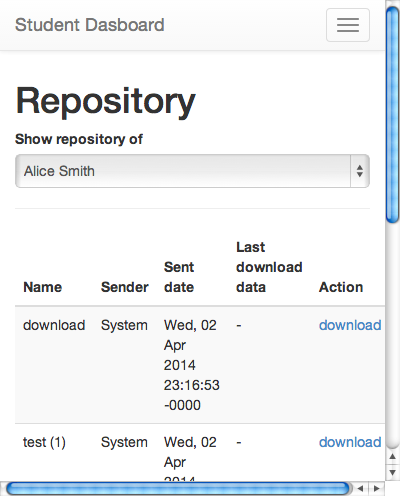
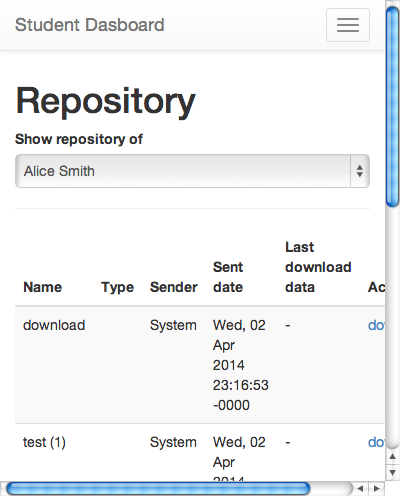
Adds field to select document type

diff --git a/app-build/views/scdashboard/repository.html b/app-build/views/scdashboard/repository.html
@@ -21,6 +21,7 @@
       <thead>
         <tr>
           <th>Name</th>
+          <th>Type</th>
           <th>Sender</th>
           <th>Sent date</th>
           <th>Last download data</th>
@@ -30,6 +31,7 @@
       <tbody>
         <tr ng-repeat="file in files" class="file-details">
           <td>{{file.name}}</td>
+          <td>{{file.type}}</td>
           <td>{{file.sender}}</td>
           <td>{{file.uploadedAt}}</td>
           <td>{{file.lastDownloadAt || '-'}}</td>
@@ -67,10 +69,19 @@
             />
           </div>
 
+          <div class="form-group">
+            <label for="selected-doc-type">Document type</label>
+            <select id="selected-doc-type" class="form-control" ng-model="fileMeta.docType"
+              ng-options="n for n in docTypes"
+            >
+              <option value="">Select a document type</option>
+            </select>
+          </div>
+
           <button type="submit" class="btn btn-primary btn-block"
             ng-click="uploadButtonClicked(selected.file)"
             ng-hide="showProgress"
-            ng-disabled="!selected.file"
+            ng-disabled="!selected.file || !fileMeta.docType"
             id="upload-file"
           >
             Upload

diff --git a/app/views/scdashboard/repository.html b/app/views/scdashboard/repository.html
@@ -21,6 +21,7 @@
       <thead>
         <tr>
           <th>Name</th>
+          <th>Type</th>
           <th>Sender</th>
           <th>Sent date</th>
           <th>Last download data</th>
@@ -30,6 +31,7 @@
       <tbody>
         <tr ng-repeat="file in files" class="file-details">
           <td>{{file.name}}</td>
+          <td>{{file.type}}</td>
           <td>{{file.sender}}</td>
           <td>{{file.uploadedAt}}</td>
           <td>{{file.lastDownloadAt || '-'}}</td>
@@ -67,10 +69,19 @@
             />
           </div>
 
+          <div class="form-group">
+            <label for="selected-doc-type">Document type</label>
+            <select id="selected-doc-type" class="form-control" ng-model="fileMeta.docType"
+              ng-options="n for n in docTypes"
+            >
+              <option value="">Select a document type</option>
+            </select>
+          </div>
+
           <button type="submit" class="btn btn-primary btn-block"
             ng-click="uploadButtonClicked(selected.file)"
             ng-hide="showProgress"
-            ng-disabled="!selected.file"
+            ng-disabled="!selected.file || !fileMeta.docType"
             id="upload-file"
           >
             Upload

diff --git a/app/js/appSpec.e2e.js b/app/js/appSpec.e2e.js
@@ -93,6 +93,11 @@
         return element(by.css('#file-select'));
       };
 
+      this.fileTypeSelectOptions = function() {
+        return element(by.css('#selected-doc-type')).
+          findElements(by.tagName('option'));
+      };
+
       this.fileName = function() {
         return element(by.css('#file-name'));
       };
@@ -107,6 +112,12 @@
 
       this.selectStudent = function(index) {
         return this.studentOptions().then(function(options) {
+          return options[index].click();
+        });
+      };
+
+      this.selectFileType = function(index) {
+        return this.fileTypeSelectOptions().then(function(options) {
           return options[index].click();
         });
       };
@@ -144,6 +155,7 @@
       expect(element(by.css('#upload-form')).isDisplayed()).toBe(true);
       page.selectFile(readMe);
       expect(page.fileName().getAttribute('value')).toBe('README.md');
+      page.selectFileType(1);
       takeScreenShot('file-selected');
 
       var button = page.uploadButton();

diff --git a/app-build/js/app.js b/app-build/js/app.js
@@ -205,6 +205,7 @@
 
   controller('scdRepositoryUploadFileCtrl', ['$scope', '$upload', 'scdRepositoryApi',
     function($scope,$upload, scdRepositoryApi) {
+      $scope.docTypes = ['SHELF', 'USMLE', 'Peer Evaluations'];
 
       function onProgress(evt) {
         $scope.progress = parseInt(100.0 * evt.loaded / evt.total, 10);
@@ -224,7 +225,8 @@
             method: 'POST',
             withCredentials: true,
             data: {
-              name: $scope.fileMeta.name,
+              name: $scope.fileMeta.name || file.name,
+              docType: $scope.fileMeta.docType,
               destId: $scope.selected.student.id
             },
             file: file

diff --git a/app/components/repository/repository-controllers.js b/app/components/repository/repository-controllers.js
@@ -69,6 +69,7 @@
 
   controller('scdRepositoryUploadFileCtrl', ['$scope', '$upload', 'scdRepositoryApi',
     function($scope,$upload, scdRepositoryApi) {
+      $scope.docTypes = ['SHELF', 'USMLE', 'Peer Evaluations'];
 
       function onProgress(evt) {
         $scope.progress = parseInt(100.0 * evt.loaded / evt.total, 10);
@@ -88,7 +89,8 @@
             method: 'POST',
             withCredentials: true,
             data: {
-              name: $scope.fileMeta.name,
+              name: $scope.fileMeta.name || file.name,
+              docType: $scope.fileMeta.docType,
               destId: $scope.selected.student.id
             },
             file: file

diff --git a/api/educationext/dashboard/controllers.py b/api/educationext/dashboard/controllers.py
@@ -1,6 +1,7 @@
 import json
 import urllib
 
+import webapp2
 from educationext.core.models import Student, User
 from educationext.core.utils import ApiRequestHandler
 from google.appengine.api import users
@@ -160,12 +161,26 @@ class UploadHandler(blobstore_handlers.BlobstoreUploadHandler, HandlerMixin):
         blob_info = upload_files[0]
         dest_id = self.request.POST.get('destId')
         name = self.request.POST.get('name', blob_info.filename)
+        doc_type = self.request.POST.get('docType')
 
         if not dest_id:
-            self.abort(400, 'No recipent was given.')
+            self.render_json(
+                {"error": 'No recipent was given.'},
+                400
+            )
+            return
+
+        if not doc_type:
+            self.render_json(
+                {"error": 'A document should have a typ.'},
+                400
+            )
+            return
 
         try:
-            new_file = models.File.new_file(dest_id, blob_info, sender, name)
+            new_file = models.File.new_file(
+                dest_id, blob_info, doc_type, sender, name
+            )
         except (ValueError, ValidationError,), e:
             self.render_json(
                 {"error": "Failed to safe new file (%s)." % str(e)},
@@ -173,7 +188,11 @@ class UploadHandler(blobstore_handlers.BlobstoreUploadHandler, HandlerMixin):
             )
             return
         else:
-            self.render_json(new_file.summary())
+            data = new_file.summary()
+            data['url'] = webapp2.uri_for(
+                'download_file', keyId=new_file.key.id()
+            )
+            self.render_json(data)
 
 
 class DownloadHandler(blobstore_handlers.BlobstoreDownloadHandler, HandlerMixin):

diff --git a/api/educationext/dashboard/schemas.py b/api/educationext/dashboard/schemas.py
@@ -2,6 +2,8 @@ from educationext.dashboard import api
 from webapp2ext.swagger import String, Array
 
 
+DOCUMENT_TYPES = ["SHELF", "USMLE", "Peer Evaluations"]
+
 
 api.schema(
     'File',
@@ -9,6 +11,7 @@ api.schema(
     properties={
         "name": String(required=True),
         "url": String(required=True),
+        "type": String(required=True, enum=DOCUMENT_TYPES),
         "sender": String(required=True),
         "senderId": String(),
         "dest": String(required=True),
@@ -22,6 +25,7 @@ api.schema(
     'FileData',
     properties={
         "name": String(required=True),
+        "type": String(required=True, enum=DOCUMENT_TYPES),
         "sender": String(required=True),
         "dest": String(required=True),
         "lastDownloadAt": String()

diff --git a/api/educationext/dashboard/models.py b/api/educationext/dashboard/models.py
@@ -28,13 +28,14 @@ class File(ndb.Model):
         return data
 
     @classmethod
-    def new_file(cls, dest_id, blob_info, sender=None, name=None):
+    def new_file(cls, dest_id, blob_info, doc_type, sender=None, name=None):
         dest = Student.get_by_id(dest_id)
         if dest is None:
             raise ValueError("Couldn't find the student to send the file to.")
 
         data={
             'name': name if name else blob_info.filename,
+            'type': doc_type,
             'sender': sender.full_name if sender else 'System',
             'dest': dest.full_name,
             'lastDownloadAt': ''
